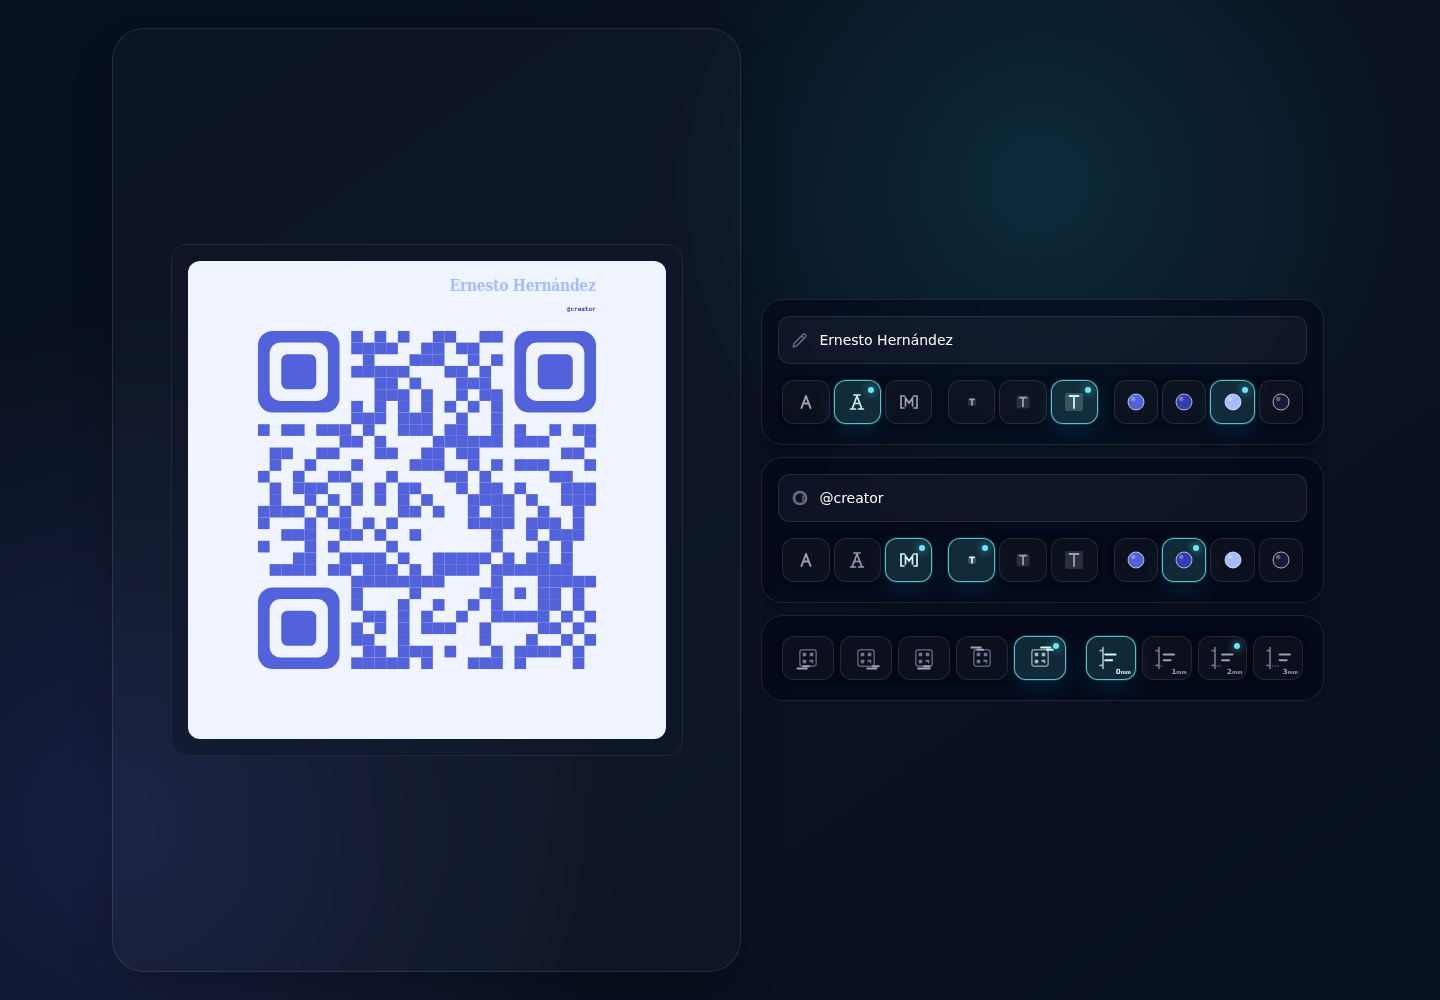
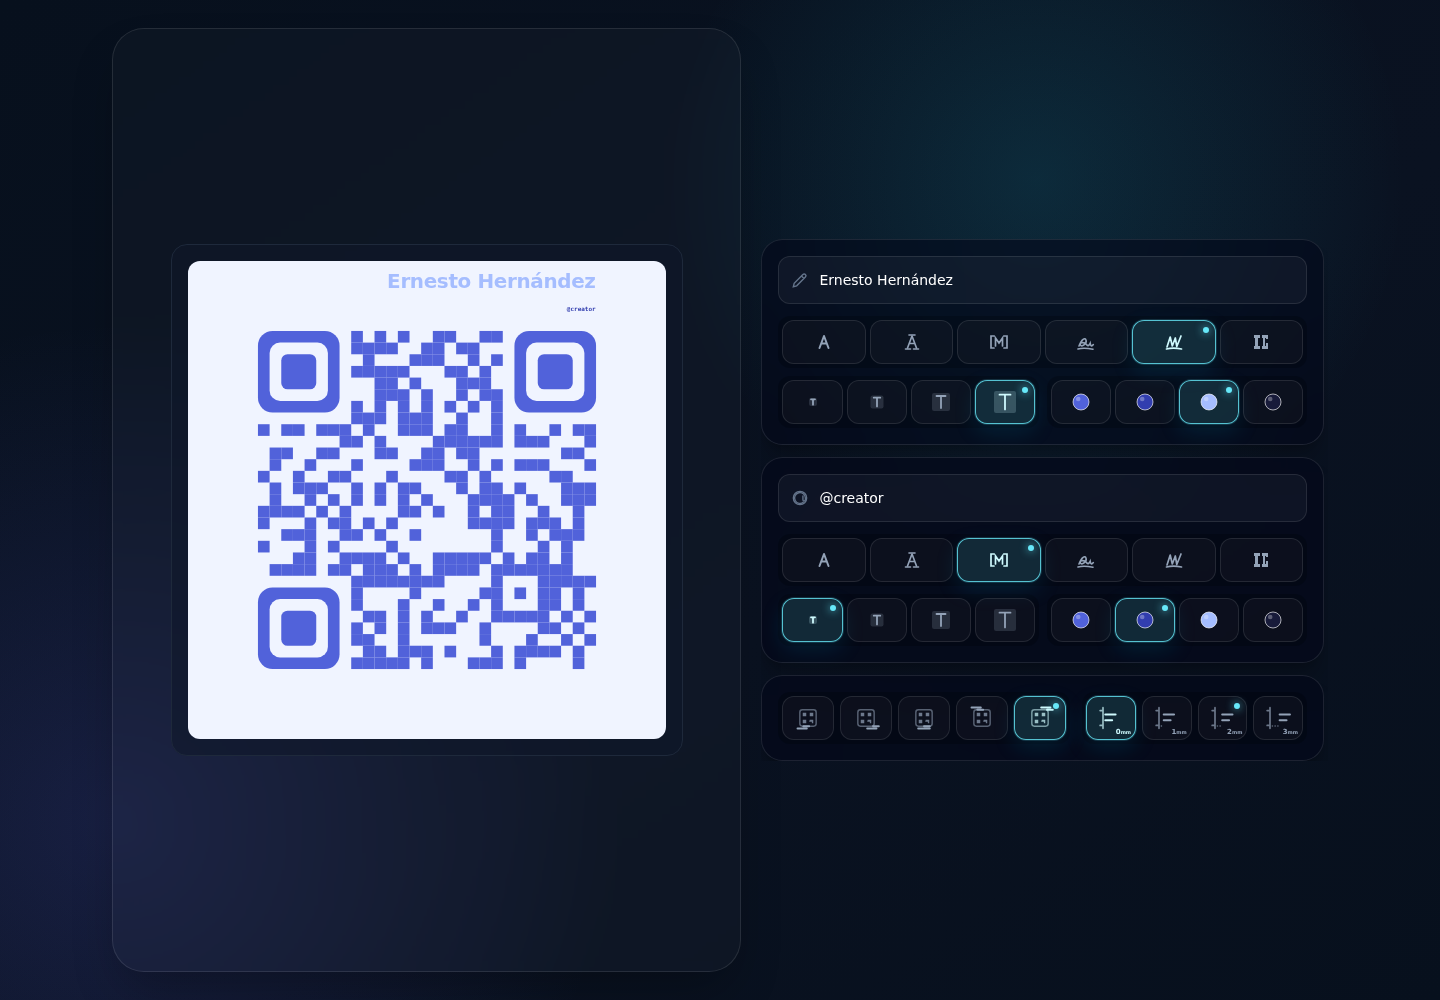
feat(studio): honor expanded Creator Signature controls

diff --git a/apps/web/src/lib/creatorSignature.ts b/apps/web/src/lib/creatorSignature.ts
@@ -37,12 +37,16 @@ export const CREATOR_SIGNATURE_FONTS: ReadonlyArray<{ value: CreatorSignatureFon
   { value: 'sans', label: 'Sans' },
   { value: 'serif', label: 'Serif' },
   { value: 'mono', label: 'Mono' },
+  { value: 'cursive', label: 'Cursive' },
+  { value: 'handwritten', label: 'Handwritten' },
+  { value: 'display', label: 'Display' },
 ]
 
 export const CREATOR_SIGNATURE_FONT_SIZES: ReadonlyArray<{ value: CreatorSignatureFontSize; label: string }> = [
   { value: 'small', label: 'Small' },
   { value: 'medium', label: 'Medium' },
   { value: 'large', label: 'Large' },
+  { value: 'extra-large', label: 'Extra Large' },
 ]
 
 export const CREATOR_SIGNATURE_COLORS: ReadonlyArray<{ value: CreatorSignatureColor; label: string }> = [
@@ -189,6 +193,9 @@ const FONT_FAMILIES: Record<CreatorSignatureFont, string> = {
   sans: 'Inter,system-ui,sans-serif',
   serif: 'Georgia,Times New Roman,serif',
   mono: 'ui-monospace,SFMono-Regular,Menlo,monospace',
+  cursive: 'Brush Script MT,Segoe Script,cursive',
+  handwritten: 'Segoe Print,Bradley Hand,cursive',
+  display: 'Impact,Arial Black,sans-serif',
 }
 
 const DEFAULT_COLORS: Record<CreatorSignatureColor, string> = {
@@ -217,8 +224,8 @@ function selectedFont(value: CreatorSignatureFont | undefined): CreatorSignature
 
 function selectedFontSize(value: CreatorSignatureFontSize | undefined, line: 1 | 2): number {
   const selected = CREATOR_SIGNATURE_FONT_SIZES.some((option) => option.value === value) ? value! : 'medium'
-  if (line === 1) return selected === 'small' ? 18 : selected === 'large' ? 26 : 22
-  return selected === 'small' ? 9 : selected === 'large' ? 13 : 11
+  if (line === 1) return selected === 'small' ? 18 : selected === 'large' ? 26 : selected === 'extra-large' ? 30 : 22
+  return selected === 'small' ? 9 : selected === 'large' ? 13 : selected === 'extra-large' ? 15 : 11
 }
 
 function selectedOffset(value: CreatorSignatureBoundaryOffsetMm | undefined): CreatorSignatureBoundaryOffsetMm {
@@ -230,21 +237,18 @@ function textLayer(fields: CreatorSignatureTemplateFields, geometry: CreatorSign
   const line2 = bounded(fields.line2Text ?? fields.handleText, 36)
   const position = fields.signaturePosition ?? 'bottom-right-outside'
   const { labelSlot } = geometry
-  const fit = (value: string, fontSize: number, maxWidth: number) => value.length * fontSize * 0.58 > maxWidth
-    ? ` textLength="${maxWidth}" lengthAdjust="spacingAndGlyphs"`
-    : ''
   const line1Size = selectedFontSize(fields.line1Size, 1)
   const line2Size = selectedFontSize(fields.line2Size, 2)
+  const line1Font = selectedFont(fields.line1Font)
+  const line2Font = selectedFont(fields.line2Font)
   const lineGap = line1Size + CREATOR_SIGNATURE_PX_PER_MM
   const lines = (
     anchor: 'start' | 'middle' | 'end',
     x: number,
     y: number,
-    options: { maxWidth?: number } = {},
   ) => {
-    const maxWidth = options.maxWidth ?? 220
-    const renderedLine1 = line1 ? `<text data-signature-line="1" data-signature-size="${fields.line1Size ?? 'medium'}" x="${x}" y="${y}" text-anchor="${anchor}" fill="${selectedColor(fields.line1Color, palette)}" font-family="${FONT_FAMILIES[selectedFont(fields.line1Font)]}" font-size="${line1Size}" font-weight="750" letter-spacing="-0.5"${fit(line1, line1Size, maxWidth)}>${line1}</text>` : ''
-    const renderedLine2 = line2 ? `<text data-signature-line="2" data-signature-size="${fields.line2Size ?? 'medium'}" x="${x}" y="${y + lineGap}" text-anchor="${anchor}" fill="${selectedColor(fields.line2Color ?? 'secondary', palette)}" font-family="${FONT_FAMILIES[selectedFont(fields.line2Font)]}" font-size="${line2Size}" font-weight="550"${fit(line2, line2Size, maxWidth)}>${line2}</text>` : ''
+    const renderedLine1 = line1 ? `<text data-signature-line="1" data-signature-font="${line1Font}" data-signature-size="${fields.line1Size ?? 'medium'}" x="${x}" y="${y}" text-anchor="${anchor}" fill="${selectedColor(fields.line1Color, palette)}" font-family="${FONT_FAMILIES[line1Font]}" font-size="${line1Size}" font-weight="750" letter-spacing="-0.5">${line1}</text>` : ''
+    const renderedLine2 = line2 ? `<text data-signature-line="2" data-signature-font="${line2Font}" data-signature-size="${fields.line2Size ?? 'medium'}" x="${x}" y="${y + lineGap}" text-anchor="${anchor}" fill="${selectedColor(fields.line2Color ?? 'secondary', palette)}" font-family="${FONT_FAMILIES[line2Font]}" font-size="${line2Size}" font-weight="550">${line2}</text>` : ''
     return `\n    ${renderedLine1}\n    ${renderedLine2}`
   }
   const reservedShelf = `<rect data-signature-reserved-shelf="true" x="${labelSlot.x}" y="${labelSlot.y}" width="${labelSlot.width}" height="${labelSlot.height}" fill="none" stroke="none" aria-hidden="true"/>`
@@ -254,7 +258,7 @@ function textLayer(fields: CreatorSignatureTemplateFields, geometry: CreatorSign
   const topShelfTextY = geometry.qrContent.y - 22 - lineGap
     - selectedOffset(fields.boundaryOffsetMm) * CREATOR_SIGNATURE_PX_PER_MM
   if (position === 'bottom-left-outside') return `${reservedShelf}${lines('start', geometry.qrContent.x, shelfTextY)}`
-  if (position === 'below-centered') return `${reservedShelf}${lines('middle', geometry.qrContent.x + geometry.qrContent.width / 2, shelfTextY, { maxWidth: geometry.qrContent.width })}`
+  if (position === 'below-centered') return `${reservedShelf}${lines('middle', geometry.qrContent.x + geometry.qrContent.width / 2, shelfTextY)}`
   if (position === 'top-left-corner') return `${reservedShelf}${lines('start', geometry.qrContent.x, topShelfTextY)}`
   if (position === 'top-right-corner') return `${reservedShelf}${lines('end', geometry.qrContent.x + geometry.qrContent.width, topShelfTextY)}`
   return `${reservedShelf}${lines('end', geometry.qrContent.x + geometry.qrContent.width, shelfTextY)}`

diff --git a/apps/web/src/components/CreatorSignatureIconConcept.tsx b/apps/web/src/components/CreatorSignatureIconConcept.tsx
@@ -37,6 +37,15 @@ function FontIcon({ value }: { value: CreatorSignatureFont }) {
   if (value === 'mono') return <svg aria-hidden="true" viewBox="0 0 24 24" className="h-6 w-6" fill="none" stroke="currentColor" strokeWidth="1.7" strokeLinecap="round">
     <path d="M7 6H4v12h3M17 6h3v12h-3M8.5 16V8l3.5 5 3.5-5v8" />
   </svg>
+  if (value === 'cursive') return <svg aria-hidden="true" viewBox="0 0 24 24" className="h-6 w-6" fill="none" stroke="currentColor" strokeWidth="1.65" strokeLinecap="round">
+    <path d="M5 16c2.5-7 6.2-9 7.1-5.6.8 3-4.5 7.7-5.8 4.3-1.1-2.8 4.7-2.7 6.2-.2 1.2 2 2.8.8 3.7-1.2.4 2.5 1.4 3.5 3.1 1.3M4 19c4.8-1.4 10.3-.7 15 .2" />
+  </svg>
+  if (value === 'handwritten') return <svg aria-hidden="true" viewBox="0 0 24 24" className="h-6 w-6" fill="none" stroke="currentColor" strokeWidth="1.7" strokeLinecap="round" strokeLinejoin="round">
+    <path d="m5 17 3.2-10 2.1 9 3-8 1.5 8.5L19 6M4.5 19c4-1 9.7-1 15 0" />
+  </svg>
+  if (value === 'display') return <svg aria-hidden="true" viewBox="0 0 24 24" className="h-6 w-6" fill="currentColor">
+    <path d="M5 5h6v3H9v8h2v3H5v-3h1V8H5zm8 0h6v4h-2V8h-1v8h1v-3h2v6h-6v-3h1V8h-1z" />
+  </svg>
   return <svg aria-hidden="true" viewBox="0 0 24 24" className="h-6 w-6" fill="none" stroke="currentColor" strokeWidth={value === 'serif' ? 1.65 : 2} strokeLinecap="round" strokeLinejoin="round">
     {value === 'serif' && <path d="M5.5 19h5M13.5 19h5M9 5h6" />}
     <path d="M7.5 18 12 6l4.5 12M9.5 13.5h5" />
@@ -44,7 +53,7 @@ function FontIcon({ value }: { value: CreatorSignatureFont }) {
 }
 
 function SizeIcon({ value }: { value: CreatorSignatureFontSize }) {
-  const size = value === 'small' ? 8 : value === 'medium' ? 13 : 18
+  const size = value === 'small' ? 8 : value === 'medium' ? 13 : value === 'large' ? 18 : 22
   return <svg aria-hidden="true" viewBox="0 0 24 24" className="h-6 w-6" fill="none">
     <rect x={(24 - size) / 2} y={(24 - size) / 2} width={size} height={size} rx="2" fill="currentColor" opacity=".2" />
     <path d={`M${12 - size / 4} ${12 - size / 3}h${size / 2}M12 ${12 - size / 3}v${size * .67}`} stroke="currentColor" strokeWidth="1.8" strokeLinecap="round" />
@@ -124,18 +133,20 @@ function LineControls({ line, fields, update, colours }: {
       />
     </label>
 
-    <div className="mt-3 grid grid-cols-[1fr_1fr_1.25fr] gap-2">
-      <div role="group" aria-label={`Line ${line} font`} className="grid grid-cols-3 gap-1 rounded-xl bg-black/20 p-1">
+    <div className="mt-3 grid gap-2">
+      <div role="group" aria-label={`Line ${line} font`} className="grid grid-cols-6 gap-1 rounded-xl bg-black/20 p-1">
         {CREATOR_SIGNATURE_FONTS.map((option) => <ControlButton key={option.value} selected={font === option.value} label={`Line ${line} ${option.label.toLowerCase()} font`}
           onClick={() => update(linePatch('line1Font', 'line2Font', option.value))}><FontIcon value={option.value} /></ControlButton>)}
       </div>
-      <div role="group" aria-label={`Line ${line} size`} className="grid grid-cols-3 gap-1 rounded-xl bg-black/20 p-1">
-        {CREATOR_SIGNATURE_FONT_SIZES.map((option) => <ControlButton key={option.value} selected={size === option.value} label={`Line ${line} ${option.label.toLowerCase()} size`}
-          onClick={() => update(linePatch('line1Size', 'line2Size', option.value))}><SizeIcon value={option.value} /></ControlButton>)}
-      </div>
-      <div role="group" aria-label={`Line ${line} colour`} className="grid grid-cols-4 gap-1 rounded-xl bg-black/20 p-1">
-        {CREATOR_SIGNATURE_COLORS.map((option) => <ControlButton key={option.value} selected={colour === option.value} label={`Line ${line} ${option.label.toLowerCase()}`}
-          onClick={() => update(linePatch('line1Color', 'line2Color', option.value))}><ColourIcon colour={colours[option.value]} /></ControlButton>)}
+      <div className="grid grid-cols-2 gap-2">
+        <div role="group" aria-label={`Line ${line} size`} className="grid grid-cols-4 gap-1 rounded-xl bg-black/20 p-1">
+          {CREATOR_SIGNATURE_FONT_SIZES.map((option) => <ControlButton key={option.value} selected={size === option.value} label={`Line ${line} ${option.label.toLowerCase()} size`}
+            onClick={() => update(linePatch('line1Size', 'line2Size', option.value))}><SizeIcon value={option.value} /></ControlButton>)}
+        </div>
+        <div role="group" aria-label={`Line ${line} colour`} className="grid grid-cols-4 gap-1 rounded-xl bg-black/20 p-1">
+          {CREATOR_SIGNATURE_COLORS.map((option) => <ControlButton key={option.value} selected={colour === option.value} label={`Line ${line} ${option.label.toLowerCase()}`}
+            onClick={() => update(linePatch('line1Color', 'line2Color', option.value))}><ColourIcon colour={colours[option.value]} /></ControlButton>)}
+        </div>
       </div>
     </div>
   </section>

diff --git a/apps/web/src/lib/creatorSignature.test.ts b/apps/web/src/lib/creatorSignature.test.ts
@@ -2,6 +2,8 @@ import { describe, expect, it } from 'vitest'
 import {
   composeCreatorSignatureSvg,
   creatorSignatureGeometry,
+  CREATOR_SIGNATURE_FONTS,
+  CREATOR_SIGNATURE_FONT_SIZES,
   CREATOR_SIGNATURE_POSITIONS,
   CREATOR_SIGNATURE_PX_PER_MM,
   DEFAULT_CREATOR_SIGNATURE,
@@ -57,8 +59,8 @@ describe('Creator Signature template contract', () => {
     const long = 'x'.repeat(100)
     const bounded = composeCreatorSignatureSvg(qr, { signatureText: long, handleText: long, ctaText: long, signaturePosition: 'top-right-corner' })
     expect(bounded).not.toContain('x'.repeat(37))
-    expect(bounded).toContain('textLength="220"')
-    expect(bounded).toContain('lengthAdjust="spacingAndGlyphs"')
+    expect(bounded).not.toContain('textLength=')
+    expect(bounded).not.toContain('lengthAdjust=')
     const empty = composeCreatorSignatureSvg(qr, { signatureText: 'Creator', handleText: 'Handle', ctaText: '' })
     expect(empty).not.toContain('SCAN TO CONNECT')
     expect(empty).not.toContain('Scan to connect')
@@ -188,17 +190,34 @@ describe('Creator Signature template contract', () => {
     expect(three).toContain('data-signature-offset-mm="3"')
   })
 
-  it('renders three curated font-size choices per line and increases the line gap by 1mm at medium size', () => {
+  it('renders all six contracted fonts, four sizes, and keeps position-independent type metrics', () => {
+    expect(CREATOR_SIGNATURE_FONTS.map(({ value }) => value)).toEqual(['sans', 'serif', 'mono', 'cursive', 'handwritten', 'display'])
+    expect(CREATOR_SIGNATURE_FONT_SIZES.map(({ value }) => value)).toEqual(['small', 'medium', 'large', 'extra-large'])
+
+    for (const font of CREATOR_SIGNATURE_FONTS) {
+      const svg = composeCreatorSignatureSvg(qr, { line1Text: 'Creator', line1Font: font.value })
+      expect(svg).toContain(`data-signature-font="${font.value}"`)
+    }
+
     const medium = composeCreatorSignatureSvg(qr, { line1Text: 'Creator', line2Text: 'Subtitle' })
-    const largeSmall = composeCreatorSignatureSvg(qr, { line1Text: 'Creator', line2Text: 'Subtitle', line1Size: 'large', line2Size: 'small' })
+    const extraSmall = composeCreatorSignatureSvg(qr, { line1Text: 'Creator', line2Text: 'Subtitle', line1Size: 'extra-large', line2Size: 'small' })
     const positions = (svg: string) => [...svg.matchAll(/data-signature-line="([12])"[^>]*y="([0-9.]+)"[^>]*font-size="([0-9.]+)"/g)].map((match) => ({ line: match[1], y: Number(match[2]), size: Number(match[3]) }))
     const mediumLines = positions(medium)
-    const largeSmallLines = positions(largeSmall)
+    const extraSmallLines = positions(extraSmall)
 
     expect(mediumLines.map((line) => line.size)).toEqual([22, 11])
     expect(mediumLines[1].y - mediumLines[0].y).toBe(22 + CREATOR_SIGNATURE_PX_PER_MM)
-    expect(largeSmallLines.map((line) => line.size)).toEqual([26, 9])
-    expect(largeSmall).toContain('data-signature-size="large"')
-    expect(largeSmall).toContain('data-signature-size="small"')
+    expect(extraSmallLines.map((line) => line.size)).toEqual([30, 9])
+    expect(extraSmall).toContain('data-signature-size="extra-large"')
+    expect(extraSmall).toContain('data-signature-size="small"')
+    expect(extraSmall).not.toContain('textLength=')
+
+    for (const { value } of CREATOR_SIGNATURE_POSITIONS) {
+      const positioned = composeCreatorSignatureSvg(qr, { line1Text: 'Creator', line1Size: 'extra-large', signaturePosition: value })
+      expect(positioned).toContain('data-signature-size="extra-large"')
+      expect(positioned).toContain('font-size="30"')
+      expect(positioned).not.toContain('textLength=')
+      expect(positioned).not.toContain('lengthAdjust=')
+    }
   })
 })

diff --git a/apps/web/src/App.test.tsx b/apps/web/src/App.test.tsx
@@ -24,8 +24,8 @@ describe('App integration', () => {
     expect(screen.queryByText('Creator Signature')).not.toBeInTheDocument()
 
     for (const line of [1, 2]) {
-      expect(screen.getByRole('group', { name: `Line ${line} font` }).querySelectorAll('button')).toHaveLength(3)
-      expect(screen.getByRole('group', { name: `Line ${line} size` }).querySelectorAll('button')).toHaveLength(3)
+      expect(screen.getByRole('group', { name: `Line ${line} font` }).querySelectorAll('button')).toHaveLength(6)
+      expect(screen.getByRole('group', { name: `Line ${line} size` }).querySelectorAll('button')).toHaveLength(4)
       expect(screen.getByRole('group', { name: `Line ${line} colour` }).querySelectorAll('button')).toHaveLength(4)
     }
     expect(Array.from(screen.getByRole('radiogroup', { name: 'Signature placement' }).querySelectorAll('[role="radio"]')).map((option) => option.getAttribute('aria-label'))).toEqual([
@@ -35,8 +35,8 @@ describe('App integration', () => {
       '0mm boundary offset', '1mm boundary offset', '2mm boundary offset', '3mm boundary offset',
     ])
 
-    await user.click(screen.getByRole('button', { name: 'Line 1 serif font' }))
-    await user.click(screen.getByRole('button', { name: 'Line 1 large size' }))
+    await user.click(screen.getByRole('button', { name: 'Line 1 handwritten font' }))
+    await user.click(screen.getByRole('button', { name: 'Line 1 extra large size' }))
     await user.click(screen.getByRole('button', { name: 'Line 1 accent' }))
     await user.click(screen.getByRole('button', { name: 'Line 2 mono font' }))
     await user.click(screen.getByRole('button', { name: 'Line 2 small size' }))
@@ -45,8 +45,8 @@ describe('App integration', () => {
     await user.click(screen.getByRole('radio', { name: '3mm boundary offset' }))
 
     expect(useStudioStore.getState().project.templateArt?.fields).toMatchObject({
-      line1Font: 'serif',
-      line1Size: 'large',
+      line1Font: 'handwritten',
+      line1Size: 'extra-large',
       line1Color: 'accent',
       line2Font: 'mono',
       line2Size: 'small',
@@ -198,8 +198,8 @@ describe('App integration', () => {
     expect(screen.queryByText('ONLY TEMPLATE')).not.toBeInTheDocument()
     await user.selectOptions(screen.getByRole('combobox', { name: 'Line 1 font' }), 'serif')
     await user.selectOptions(screen.getByRole('combobox', { name: 'Line 2 font' }), 'mono')
-    expect(Array.from(screen.getByRole('combobox', { name: 'Line 1 size' }).querySelectorAll('option')).map((option) => option.textContent)).toEqual(['Small', 'Medium', 'Large'])
-    expect(Array.from(screen.getByRole('combobox', { name: 'Line 2 size' }).querySelectorAll('option')).map((option) => option.textContent)).toEqual(['Small', 'Medium', 'Large'])
+    expect(Array.from(screen.getByRole('combobox', { name: 'Line 1 size' }).querySelectorAll('option')).map((option) => option.textContent)).toEqual(['Small', 'Medium', 'Large', 'Extra Large'])
+    expect(Array.from(screen.getByRole('combobox', { name: 'Line 2 size' }).querySelectorAll('option')).map((option) => option.textContent)).toEqual(['Small', 'Medium', 'Large', 'Extra Large'])
     await user.selectOptions(screen.getByRole('combobox', { name: 'Line 1 size' }), 'large')
     await user.selectOptions(screen.getByRole('combobox', { name: 'Line 2 size' }), 'small')
     await user.selectOptions(screen.getByRole('combobox', { name: 'Line 1 colour' }), 'primary')

diff --git a/apps/web/src/types.ts b/apps/web/src/types.ts
@@ -60,8 +60,8 @@ export type CreatorSignaturePosition =
   | 'top-right-corner'
   | 'top-left-corner'
 
-export type CreatorSignatureFont = 'sans' | 'serif' | 'mono'
-export type CreatorSignatureFontSize = 'small' | 'medium' | 'large'
+export type CreatorSignatureFont = 'sans' | 'serif' | 'mono' | 'cursive' | 'handwritten' | 'display'
+export type CreatorSignatureFontSize = 'small' | 'medium' | 'large' | 'extra-large'
 export type CreatorSignatureColor = 'primary' | 'secondary' | 'accent' | 'dark-ink'
 export type CreatorSignatureBoundaryOffsetMm = 0 | 1 | 2 | 3
 
